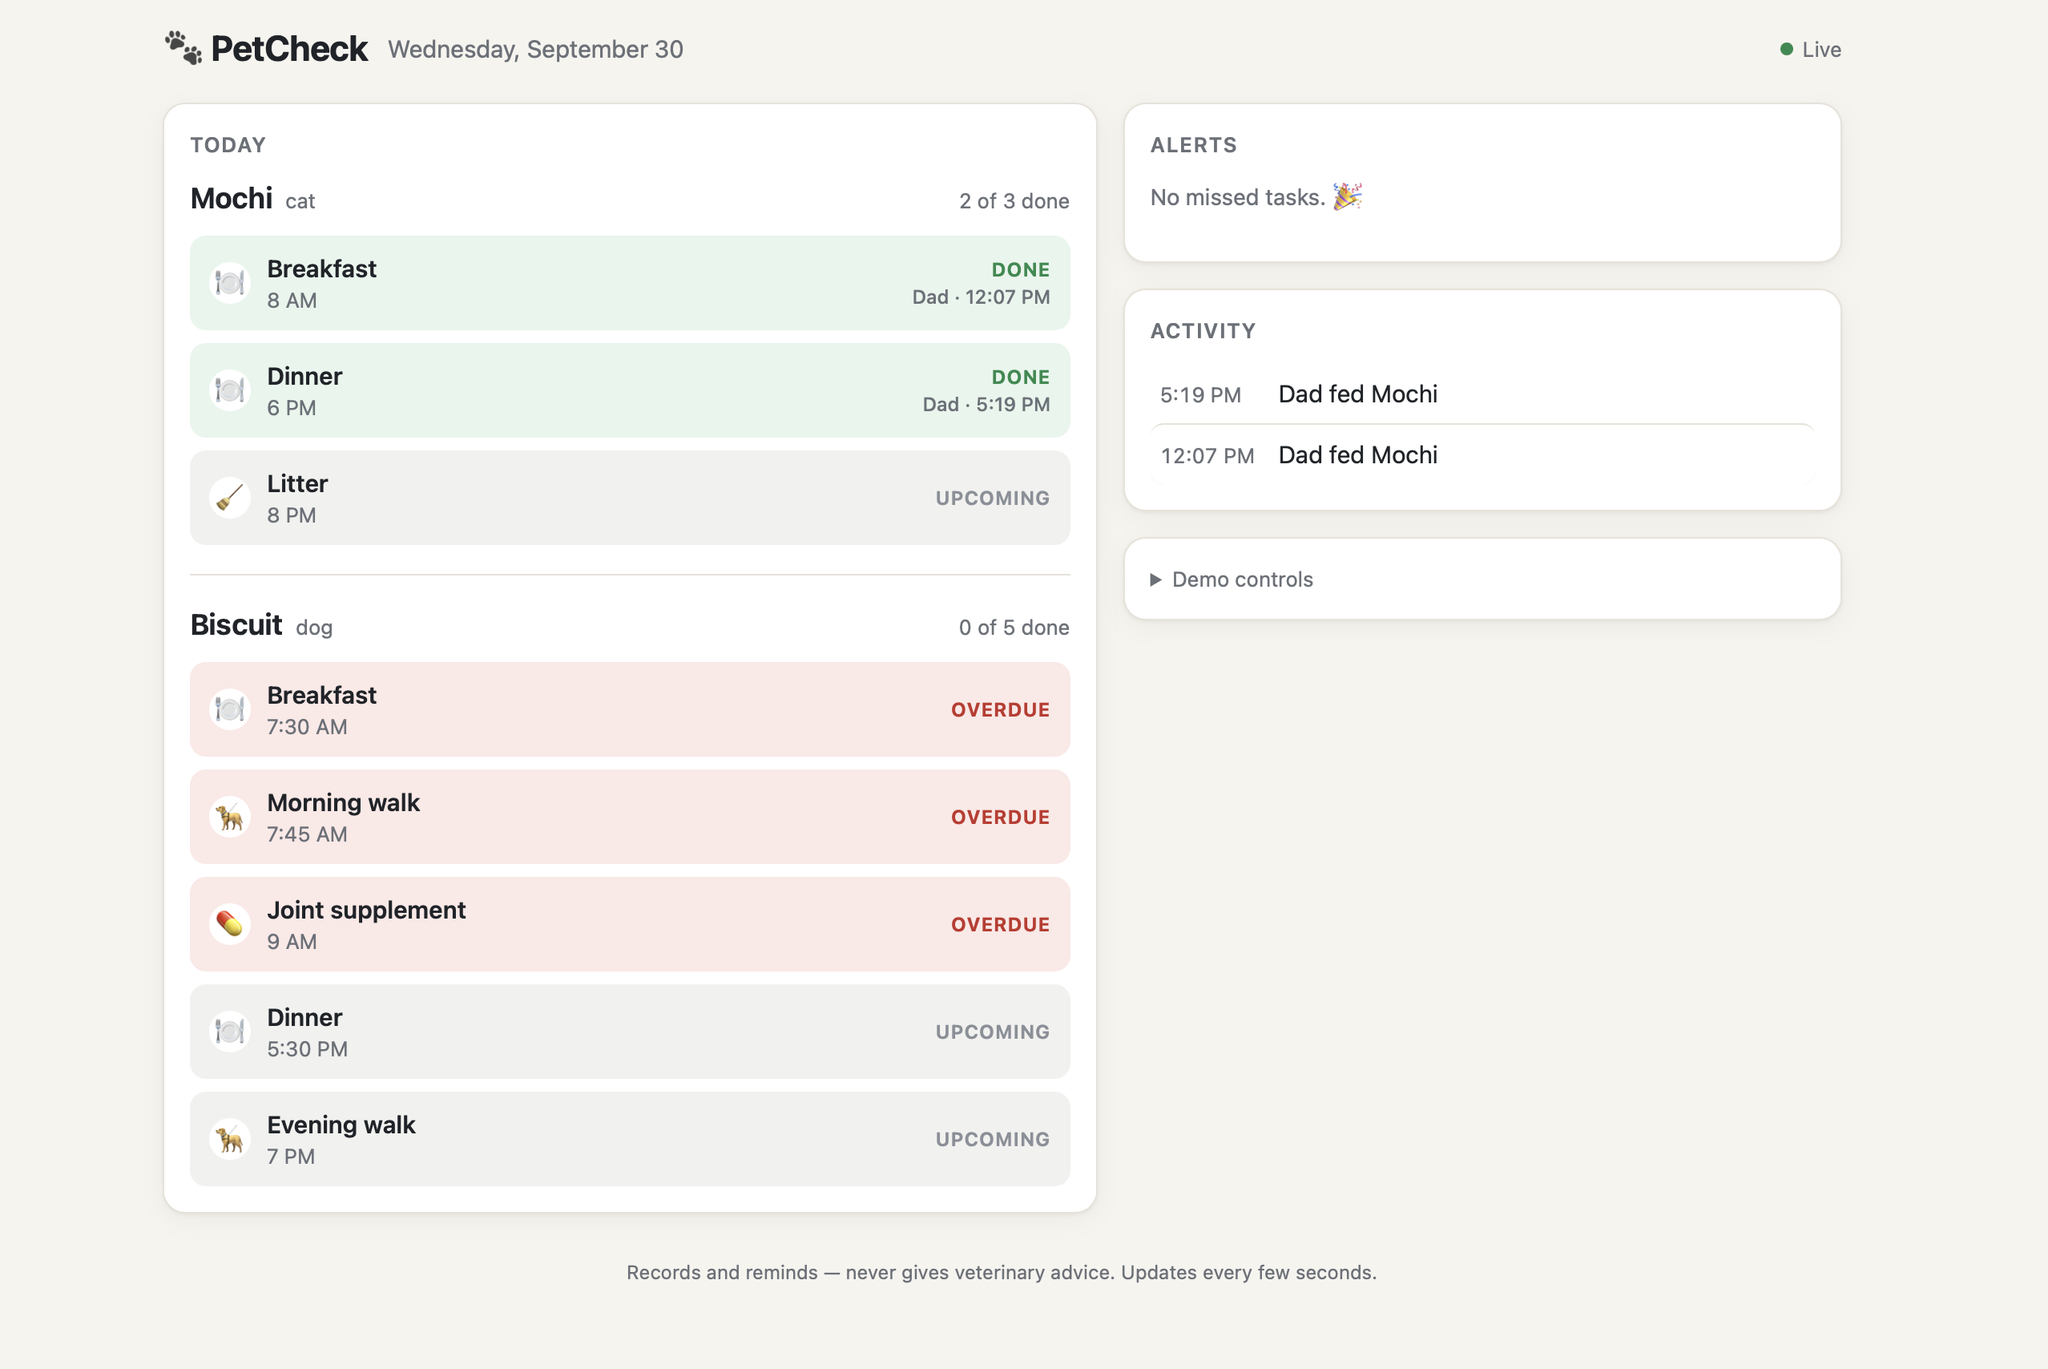
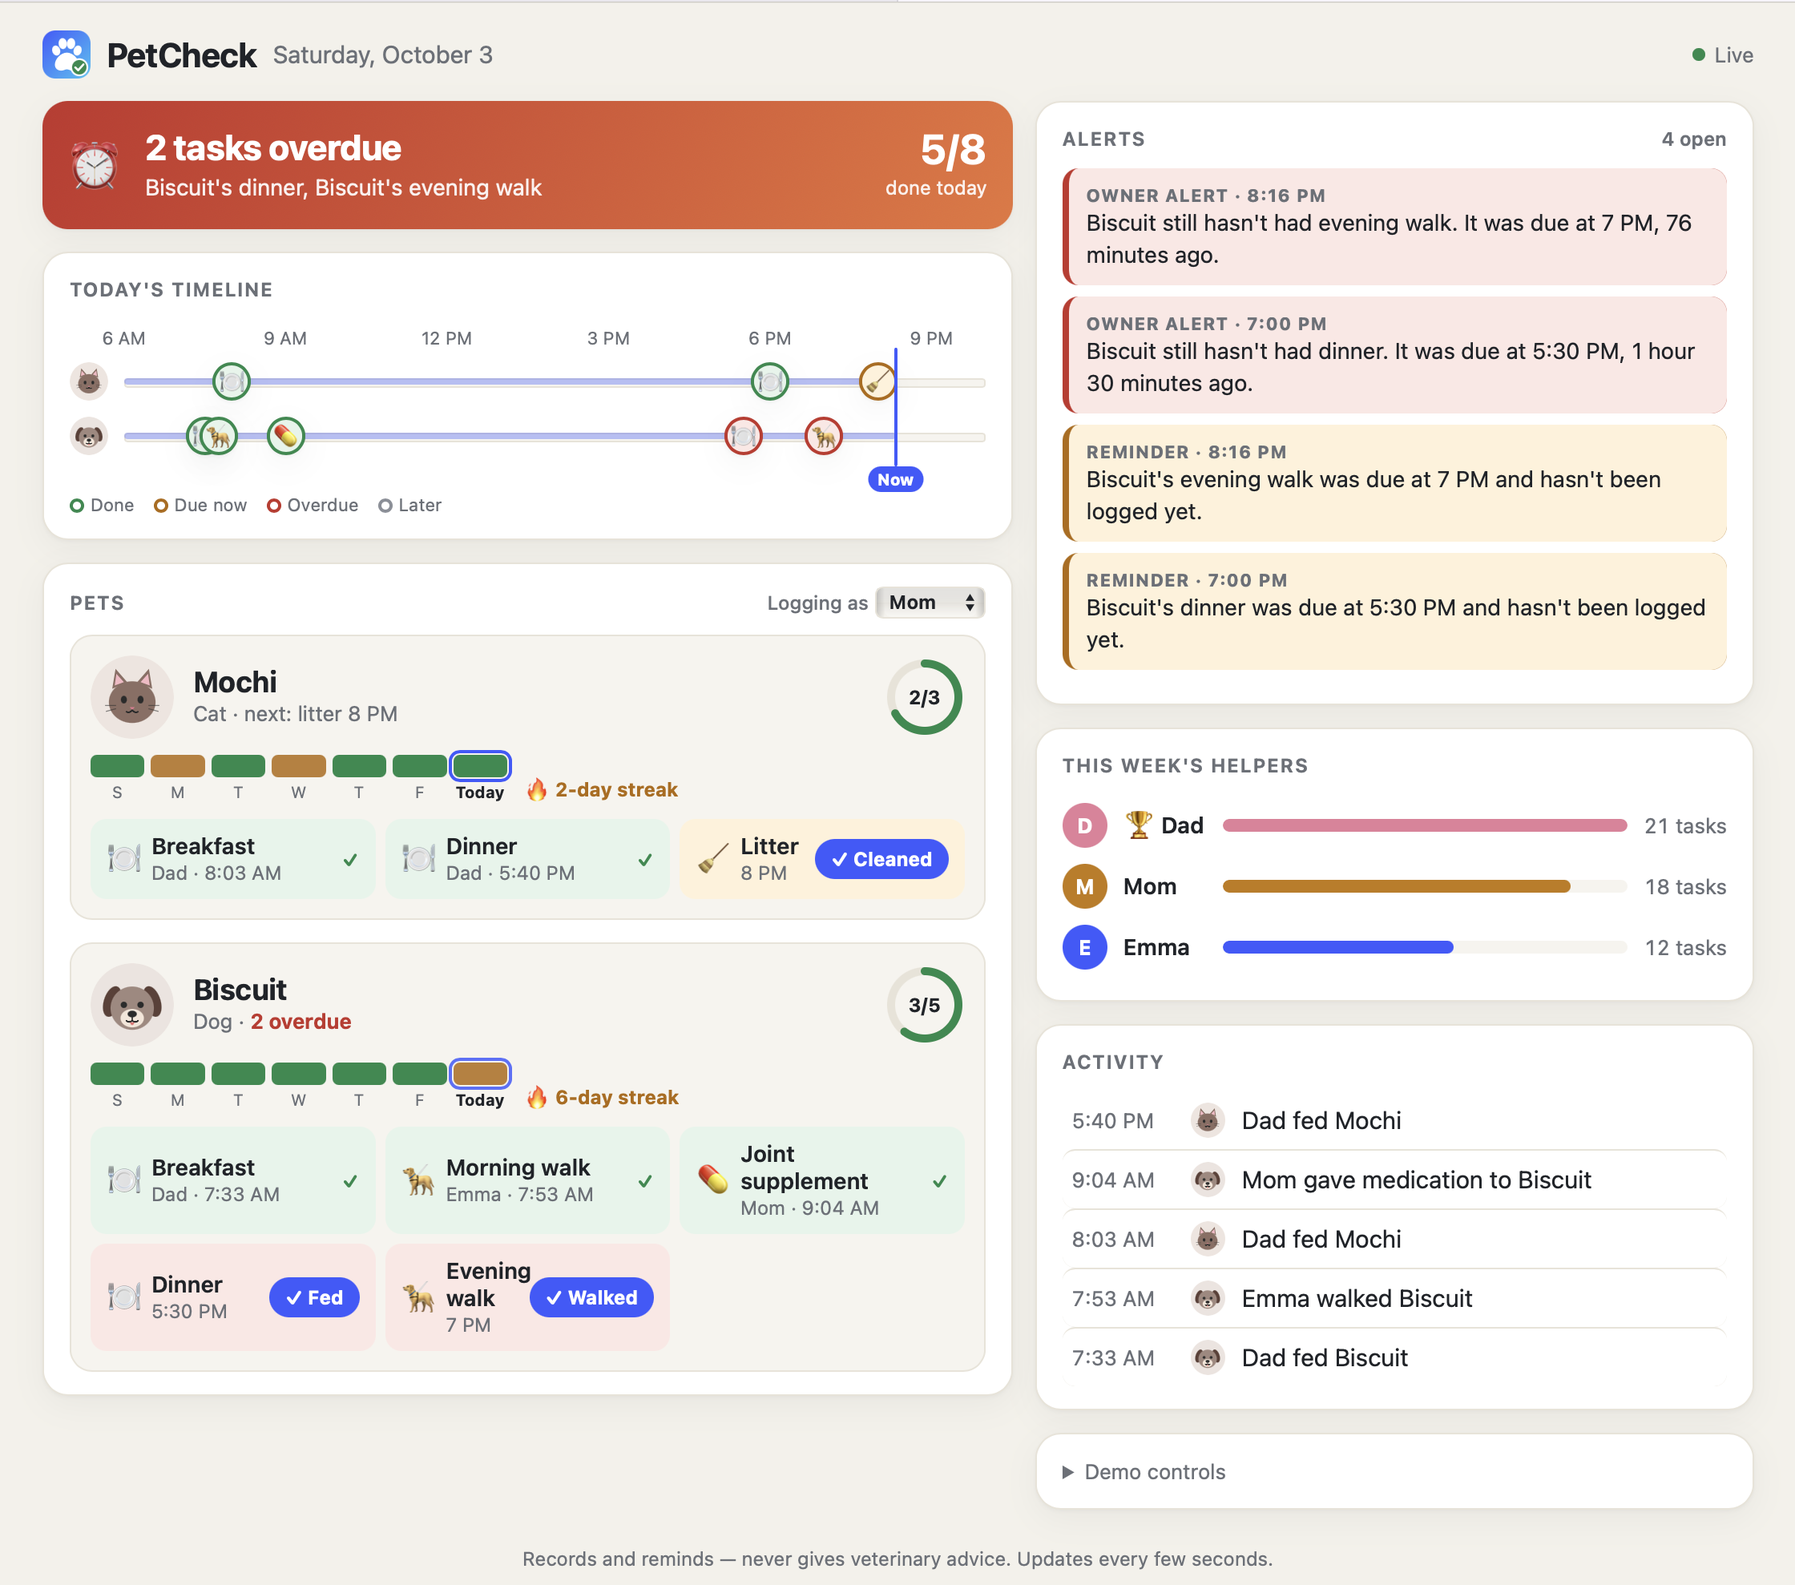
Demo clock, honest Bedrock wording, new README screenshot

diff --git a/src/api.ts b/src/api.ts
@@ -2,7 +2,7 @@
 //
 //   GET  /api/today[?time=HH:MM]          everything the household page shows for today
 //   POST /api/check-missed {time?: HH:MM} run the missed-task check now (demo / manual)
-//   POST /api/assistant {text, speaker, history}  simulated Alexa+ turn (Bedrock + MCP client)
+//   POST /api/assistant {text, speaker, history, time?}  simulated Alexa+ turn (Bedrock + MCP client)
 //   POST /api/log {pet, activity, by, confirm?, time?}  quick-log from the household page (same
 //                                         logic as the log_care tool, including the duplicate check)
 //
@@ -11,7 +11,7 @@
 //
 // Also exported: runMissedCheck(), which EventBridge Scheduler triggers every 5 minutes.
 
-import { localParts, localToDate, now, setDemoOffset } from "./clock.js";
+import { isDemoTime, now, offsetForTime, setDemoOffset, withDemoTime } from "./clock.js";
 import { storage } from "./mcp.js";
 import { notifyOwner } from "./notify.js";
 import { ACTIVITIES, PetCheckError, checkMissedTasks, logCare, todayView, type Activity, type Alert } from "./store.js";
@@ -25,9 +25,8 @@ export interface ApiResult {
 /** Offset (ms) that makes now() read `time` today in the household time zone. */
 function offsetFor(time?: string): number {
   if (!time) return 0;
-  if (!/^\d{1,2}:\d{2}$/.test(time)) throw new PetCheckError(`time "${time}" should look like 18:30`);
-  const target = localToDate(localParts(new Date()).date, time.padStart(5, "0"));
-  return target.getTime() - Date.now();
+  if (!isDemoTime(time)) throw new PetCheckError(`time "${time}" should look like 18:30`);
+  return offsetForTime(time);
 }
 
 /** Run fn with the clock shifted to `time` (if given), then restore it. */
@@ -88,9 +87,15 @@ export async function handleApi(
     if (method === "POST" && p === "/assistant") {
       if (!ctx.mcpUrl) return { status: 500, body: { error: "MCP URL unknown" } };
       try {
-        const r = await runAssistant(body as AssistantRequest, { mcpUrl: ctx.mcpUrl, apiKey: process.env.API_KEY });
+        // Optional demo clock: the turn (and its MCP tool calls) run as if it's `time` today.
+        const time = (body as { time?: string } | undefined)?.time;
+        if (time !== undefined && !isDemoTime(time)) throw new PetCheckError(`time "${time}" should look like 17:40`);
+        const r = await withDemoTime(time, () =>
+          runAssistant(body as AssistantRequest, { mcpUrl: ctx.mcpUrl!, apiKey: process.env.API_KEY, demoTime: time }),
+        );
         return { status: 200, body: r };
       } catch (err) {
+        if (err instanceof PetCheckError) throw err;
         const e = err as { name?: string; message?: string };
         console.error("assistant error:", err);
         // Surface Bedrock setup problems clearly (model access, region, permissions).

diff --git a/src/clock.ts b/src/clock.ts
@@ -4,12 +4,17 @@
 // The demo offset lets the simulated Alexa+ page "fast-forward" the clock
 // (e.g. jump to 6:30 PM) so the real missed-task logic runs during the video.
 
+import { AsyncLocalStorage } from "node:async_hooks";
+
 let demoOffsetMs = 0;
+// Per-request demo offset: the simulated Alexa+ sends its demo time with each
+// request, so concurrent requests can't leak a fake clock into each other.
+const scopedOffset = new AsyncLocalStorage<number>();
 
 export const HOUSEHOLD_TZ = process.env.HOUSEHOLD_TZ ?? "America/Detroit";
 
 export function now(): Date {
-  return new Date(Date.now() + demoOffsetMs);
+  return new Date(Date.now() + (scopedOffset.getStore() ?? demoOffsetMs));
 }
 
 export function setDemoOffset(ms: number): void {
@@ -17,7 +22,23 @@ export function setDemoOffset(ms: number): void {
 }
 
 export function getDemoOffset(): number {
-  return demoOffsetMs;
+  return scopedOffset.getStore() ?? demoOffsetMs;
+}
+
+/** Run fn (and everything it awaits) with the clock reading `time` ("17:40") today. */
+export function withDemoTime<T>(time: string | undefined, fn: () => T): T {
+  return time ? scopedOffset.run(offsetForTime(time), fn) : fn();
+}
+
+/** Offset (ms) that makes now() read `time` ("17:40") today in the household time zone. */
+export function offsetForTime(time: string): number {
+  if (!isDemoTime(time)) throw new RangeError(`time "${time}" should look like 18:30`);
+  const target = localToDate(localParts(new Date()).date, time.padStart(5, "0"));
+  return target.getTime() - Date.now();
+}
+
+export function isDemoTime(time: unknown): time is string {
+  return typeof time === "string" && /^([01]?\d|2[0-3]):[0-5]\d$/.test(time);
 }
 
 /** Local calendar date (YYYY-MM-DD) and minutes-since-midnight in the household TZ. */

diff --git a/scripts/db.ts b/scripts/db.ts
@@ -3,6 +3,7 @@
 //   npm run db:reset    delete this household's data and load fresh demo data
 //   npm run db:status   show table status and how many records the household has
 //   npm run db:demo     like db:reset, plus today's tasks so far marked done (dinners left open)
+//   npm run db:demo -- 17:35   same, as if it were 5:35 PM (for recording with /demo?time=17:40)
 //                       so the household page starts tidy for recording the demo video
 
 import {
@@ -14,6 +15,7 @@ import {
 } from "@aws-sdk/client-dynamodb";
 import { HOUSEHOLD_ID, REGION, TABLE_NAME, batchWrite, queryHousehold } from "../src/dynamo.js";
 import { seedDemoData, seedTodaySoFar, takeChanges } from "../src/store.js";
+import { isDemoTime, offsetForTime, setDemoOffset, spokenTime, now } from "../src/clock.js";
 import { dynamoBackend } from "../src/dynamo.js";
 
 const client = new DynamoDBClient({ region: REGION });
@@ -50,8 +52,13 @@ async function reset(withToday = false) {
   const existing = await queryHousehold();
   await batchWrite(existing.map((it) => ({ DeleteRequest: { Key: { pk: it.pk, sk: it.sk } } })));
   console.log(`Deleted ${existing.length} records for household "${HOUSEHOLD_ID}".`);
+  const time = process.argv[3];
+  if (time && !isDemoTime(time)) throw new Error(`time "${time}" should look like 17:35`);
+  if (time) setDemoOffset(offsetForTime(time));
   seedDemoData();
   const today = withToday ? seedTodaySoFar() : 0;
+  if (time) console.log(`(demo clock: seeded as if it were ${spokenTime(now())})`);
+  setDemoOffset(0);
   const changes = takeChanges();
   await dynamoBackend().saveChanges(changes);
   console.log(`✔ Loaded ${changes.length} demo records (Mochi, Biscuit and last week's history).`);

diff --git a/src/alexa.html b/src/alexa.html
@@ -228,6 +228,8 @@
   function el(tag, cls, text) { var e = document.createElement(tag); if (cls) e.className = cls; if (text != null) e.textContent = text; return e; }
   function store(k, v) { try { if (v === undefined) return localStorage.getItem(k); if (v === null) localStorage.removeItem(k); else localStorage.setItem(k, v); } catch (e) { return null; } }
   if (new URLSearchParams(location.search).get("compact")) document.body.classList.add("compact");
+  // Demo clock (?time=17:40): Alexa answers as if it's that time today (for recording the demo video).
+  var DEMO_TIME = (function () { var t = new URLSearchParams(location.search).get("time"); return t && /^([01]?\d|2[0-3]):[0-5]\d$/.test(t) ? t : null; })();
 
   // --- Speaker picker & suggestions ---------------------------------------
   state.speaker = store(SPEAKER_STORE) || "Dad";
@@ -337,7 +339,7 @@
     fetch("/api/assistant", {
       method: "POST",
       headers: { "content-type": "application/json", "x-api-key": state.key },
-      body: JSON.stringify({ text: text, speaker: state.speaker, history: state.history.slice(-10) }),
+      body: JSON.stringify(Object.assign({ text: text, speaker: state.speaker, history: state.history.slice(-10) }, DEMO_TIME ? { time: DEMO_TIME } : {})),
     }).then(function (res) {
       if (res.status === 401) { var e = new Error("unauthorized"); e.unauthorized = true; throw e; }
       return res.json().then(function (j) { if (!res.ok) throw new Error(j.error || res.statusText); return j; });

diff --git a/src/demo.html b/src/demo.html
@@ -19,13 +19,19 @@
 <body>
   <div class="bar"><b>🐾 PetCheck demo</b><span>Left: a family member talking to Alexa+ · Right: the owner's household view (live)</span></div>
   <div class="split">
-    <iframe class="left" src="/alexa?compact=1" allow="microphone; autoplay" title="Simulated Alexa+"></iframe>
-    <iframe class="right" src="/" title="Household page"></iframe>
+    <iframe class="left" id="left" src="/alexa?compact=1" allow="microphone; autoplay" title="Simulated Alexa+"></iframe>
+    <iframe class="right" id="right" src="/" title="Household page"></iframe>
   </div>
   <script>
     // Pass a #key=... fragment on to both frames' shared storage, then clean the URL.
     var m = location.hash.match(/key=([^&]+)/);
-    if (m) { try { localStorage.setItem("petcheck.key", decodeURIComponent(m[1])); } catch (e) {} history.replaceState(null, "", location.pathname); }
+    if (m) { try { localStorage.setItem("petcheck.key", decodeURIComponent(m[1])); } catch (e) {} history.replaceState(null, "", location.pathname + location.search); }
+    // Demo clock: /demo?time=17:40 runs both sides as if it's 5:40 PM today.
+    var t = new URLSearchParams(location.search).get("time");
+    if (t && /^([01]?\d|2[0-3]):[0-5]\d$/.test(t)) {
+      document.getElementById("left").src = "/alexa?compact=1&time=" + t;
+      document.getElementById("right").src = "/?time=" + t;
+    }
   </script>
 </body>
 </html>

diff --git a/test/assistant.ts b/test/assistant.ts
@@ -103,6 +103,19 @@ try {
   assert.equal(r.toolCalls.length, 0);
   console.log("✔ “Can dogs eat grapes?” →", r.reply);
 
+  // 8. Demo clock: the whole turn, including the MCP tool call on the server, runs at 5:40 PM.
+  const { withDemoTime, localParts } = await import("../src/clock.js");
+  r = await withDemoTime("17:40", () =>
+    runAssistant({ text: "I fed Biscuit", speaker: "Mom", time: "17:40" } as never, { mcpUrl, apiKey: "test", bedrock: blocked, demoTime: "17:40" }),
+  );
+  assert.match(r.reply, /Mom fed Biscuit/);
+  const today = await (await fetch(mcpUrl.replace("/mcp", "/api/today?time=17:45"), { headers: { "x-api-key": "test" } })).json();
+  const ev = today.events.find((e: { by: string; at: string }) => e.by === "Mom" && localParts(new Date(e.at)).minutes === 17 * 60 + 40);
+  assert.ok(ev, "the log is stamped 5:40 PM, not the real time");
+  const dinner = today.pets.find((p: { name: string }) => p.name === "Biscuit").slots.find((s: { label: string }) => s.label === "dinner");
+  assert.equal(dinner.state, "done");
+  console.log("✔ demo clock 5:40 PM → Biscuit's dinner logged at 5:40 PM:", r.reply);
+
   console.log("\nAll assistant checks passed.");
 } finally {
   server.close();

diff --git a/src/lambda.ts b/src/lambda.ts
@@ -12,6 +12,7 @@ import { METHOD_NOT_ALLOWED, apiKeyOk, buildServer, healthInfo } from "./mcp.js"
 import { authenticate, handleOAuth, mcpAccessError } from "./oauth.js";
 import { CORS_HEADERS, handleApi, runMissedCheck } from "./api.js";
 import { page } from "./page.js";
+import { isDemoTime, withDemoTime } from "./clock.js";
 
 interface FunctionUrlEvent {
   rawPath: string;
@@ -115,7 +116,9 @@ async function handleHttp(event: FunctionUrlEvent): Promise<LambdaResult> {
   const transport = new WebStandardStreamableHTTPServerTransport({ sessionIdGenerator: undefined, enableJsonResponse: true });
   try {
     await server.connect(transport);
-    const response = await transport.handleRequest(request, { parsedBody });
+    // Demo clock from the simulated Alexa+ (only for authenticated callers; ignored if malformed).
+    const demo = headers["x-petcheck-demo-time"];
+    const response = await withDemoTime(isDemoTime(demo) ? demo : undefined, () => transport.handleRequest(request, { parsedBody }));
     return {
       statusCode: response.status,
       headers: Object.fromEntries(response.headers.entries()),

diff --git a/src/assistant.ts b/src/assistant.ts
@@ -189,6 +189,8 @@ export async function runAssistant(
   opts: {
     mcpUrl: string;
     apiKey?: string;
+    /** Demo clock ("17:40"), forwarded to the MCP server as x-petcheck-demo-time. */
+    demoTime?: string;
     /** Force this model function for the whole turn (tests). */
     converse?: ConverseFn;
     /** Stand-in for Bedrock that still gets the auto-fallback behaviour (tests). */
@@ -228,7 +230,12 @@ export async function runAssistant(
   // 1. Connect to the PetCheck MCP server over HTTP (initialize + tools/list).
   const trace: TraceEntry[] = [];
   const transport = new StreamableHTTPClientTransport(new URL(opts.mcpUrl), {
-    requestInit: { headers: opts.apiKey ? { "x-api-key": opts.apiKey } : {} },
+    requestInit: {
+      headers: {
+        ...(opts.apiKey ? { "x-api-key": opts.apiKey } : {}),
+        ...(opts.demoTime ? { "x-petcheck-demo-time": opts.demoTime } : {}),
+      },
+    },
     fetch: tracedFetch(trace),
   });
   const client = new Client({ name: "petcheck-alexa-sim", version: "0.1.0" });

diff --git a/src/household.html b/src/household.html
@@ -690,7 +690,7 @@
   var m = location.hash.match(/key=([^&]+)/);
   if (m) { store(false, decodeURIComponent(m[1])); history.replaceState(null, "", location.pathname + location.search); }
   var t = location.search.match(/[?&]time=(\d{1,2}:\d{2})/);
-  if (t) { $("demo-time").value = t[1].length === 4 ? "0" + t[1] : t[1]; state.demoTime = $("demo-time").value; $("demo-pill").hidden = false; $("demo-pill").textContent = "Demo clock: " + hhmmSpoken(state.demoTime); $("demo").open = true; }
+  if (t) { $("demo-time").value = t[1].length === 4 ? "0" + t[1] : t[1]; state.demoTime = $("demo-time").value; $("demo-pill").hidden = false; $("demo-pill").textContent = "Demo clock: " + hhmmSpoken(state.demoTime); if (window.top === window) $("demo").open = true; }
 
   state.key = store(true);
   if (state.key) start(); else { $("login").hidden = false; }

diff --git a/src/app.ts b/src/app.ts
@@ -5,6 +5,7 @@ import { METHOD_NOT_ALLOWED, apiKeyOk, buildServer, healthInfo } from "./mcp.js"
 import { authenticate, handleOAuth, mcpAccessError } from "./oauth.js";
 import { CORS_HEADERS, handleApi } from "./api.js";
 import { PAGES, page } from "./page.js";
+import { isDemoTime, withDemoTime } from "./clock.js";
 
 export { storage } from "./mcp.js";
 
@@ -45,7 +46,8 @@ app.post("/mcp", async (req, res) => {
   });
   try {
     await server.connect(transport);
-    await transport.handleRequest(req, res, req.body);
+    const demo = req.header("x-petcheck-demo-time");
+    await withDemoTime(isDemoTime(demo) ? demo : undefined, () => transport.handleRequest(req, res, req.body));
   } catch (err) {
     console.error("MCP request failed:", err);
     if (!res.headersSent) {

diff --git a/README.md b/README.md
@@ -6,7 +6,10 @@ PetCheck is an **MCP server** (spec 2025-11-25, Streamable HTTP) running on **AW
 DynamoDB storage, scheduled missed-task alerts, OAuth 2.1 for Alexa+ account linking, a live household
 page, and a **simulated Alexa+** web experience that talks to the server through a real MCP client.
 
-![PetCheck demo: simulated Alexa+ and the household page](docs/screenshots/household-page.png)
+![PetCheck household page: status banner, today's timeline, pet cards with 7-day history and quick-log buttons, alerts, helpers and activity](docs/screenshots/household-page.png)
+
+*The live household page: what's done, what's overdue, the alerts PetCheck raised, a 7-day history with
+streaks for each pet, one-tap "✓ Fed / Walked" logging, and who helped most this week.*
 
 ## The problem
 
@@ -51,7 +54,7 @@ The **MCP traffic** panel shows every HTTP request the assistant makes to `/mcp`
 (`initialize` → `tools/list` → `tools/call log_care`), with full JSON-RPC bodies.
 
 `npm run demo` uses in-memory data and PetCheck's built-in rules engine, so it runs anywhere.
-The deployed version uses DynamoDB and Amazon Bedrock (see below).
+The deployed version uses DynamoDB, and Amazon Bedrock once the account is approved (until then the built-in rules engine answers; see below).
 
 ## How it works
 
@@ -180,11 +183,14 @@ which is git-ignored. Add `ALERT_EMAIL=you@example.com` there for owner emails.
 |---|---|
 | `/` | Household page |
 | `/alexa` | Simulated Alexa+ |
-| `/demo` | Split screen: simulated Alexa+ and the household page, for recording |
+| `/demo` | Split screen: simulated Alexa+ and the household page, for recording. Add `?time=17:40` to run both sides on a demo clock (also works on `/` and `/alexa`) |
 | `/mcp` | MCP endpoint (household key via `x-api-key` / `Authorization: Bearer`, or an OAuth token) |
-| `/api/today`, `/api/check-missed`, `/api/assistant` | JSON API used by the pages |
+| `/api/today`, `/api/check-missed`, `/api/log`, `/api/assistant` | JSON API used by the pages |
 | `/.well-known/oauth-authorization-server`, `/oauth/authorize`, `/oauth/token` | OAuth 2.1 for Alexa+ |
 | `/privacy`, `/terms`, `/health` | Listing pages and a health check |
+
+To record the demo video at any time of day: `npm run db:demo -- 17:35` resets the household as if it
+were 5:35 PM, then open `/demo?time=17:40`.
 
 Other commands: `npm run logs` (follow the Lambda logs), `npm run db:status`, `npm run dev:dynamo`
 (local server against DynamoDB), `npm run inspector` (MCP Inspector; connect with Streamable HTTP to
